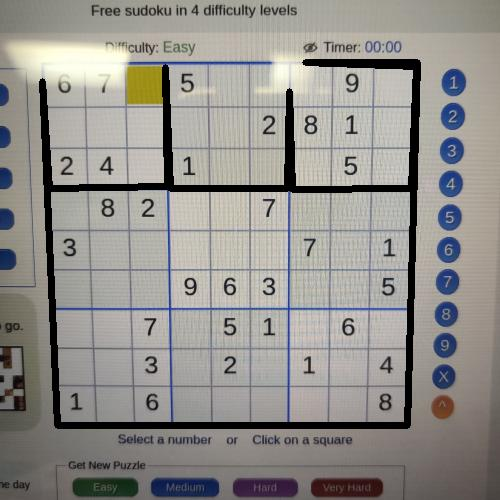
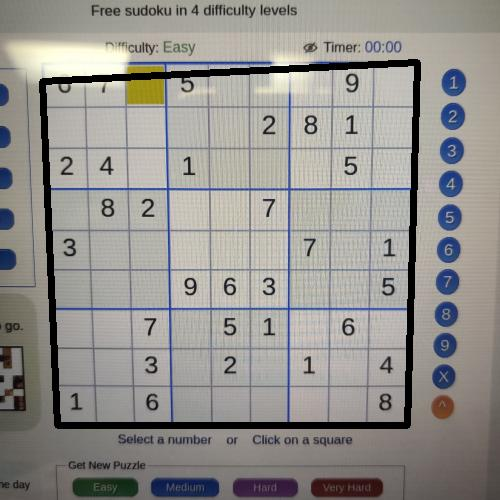
increased sigma in approximation of the contour detection for a better sudoku detection

Changed region(s): [[0.09, 0.12, 0.84, 0.39], [0.81, 0.21, 0.84, 0.24]]

diff --git a/detection/testOpencv1.js b/detection/testOpencv1.js
@@ -73,7 +73,7 @@ const cv = require('opencv.js');
   
     let peri = cv.arcLength(biggestContour, true);
     let contourApprox = new cv.Mat();
-    cv.approxPolyDP(biggestContour, contourApprox, 0.015 * peri, true);
+    cv.approxPolyDP(biggestContour, contourApprox, 0.07 * peri, true);
   
     if (contourApprox.rows != 4) {
       console.log(`could not detect sudoku${i}.jpg`);

diff --git a/detection/testOpencv2.js b/detection/testOpencv2.js
@@ -67,7 +67,7 @@ const cv = require('opencv.js');
   
     let peri = cv.arcLength(biggestContour, true);
     let contourApprox = new cv.Mat();
-    cv.approxPolyDP(biggestContour, contourApprox, 0.015 * peri, true);
+    cv.approxPolyDP(biggestContour, contourApprox, 0.09 * peri, true);
   
     if (contourApprox.rows != 4) {
       console.log(`could not detect sudoku${i}.jpg`);
